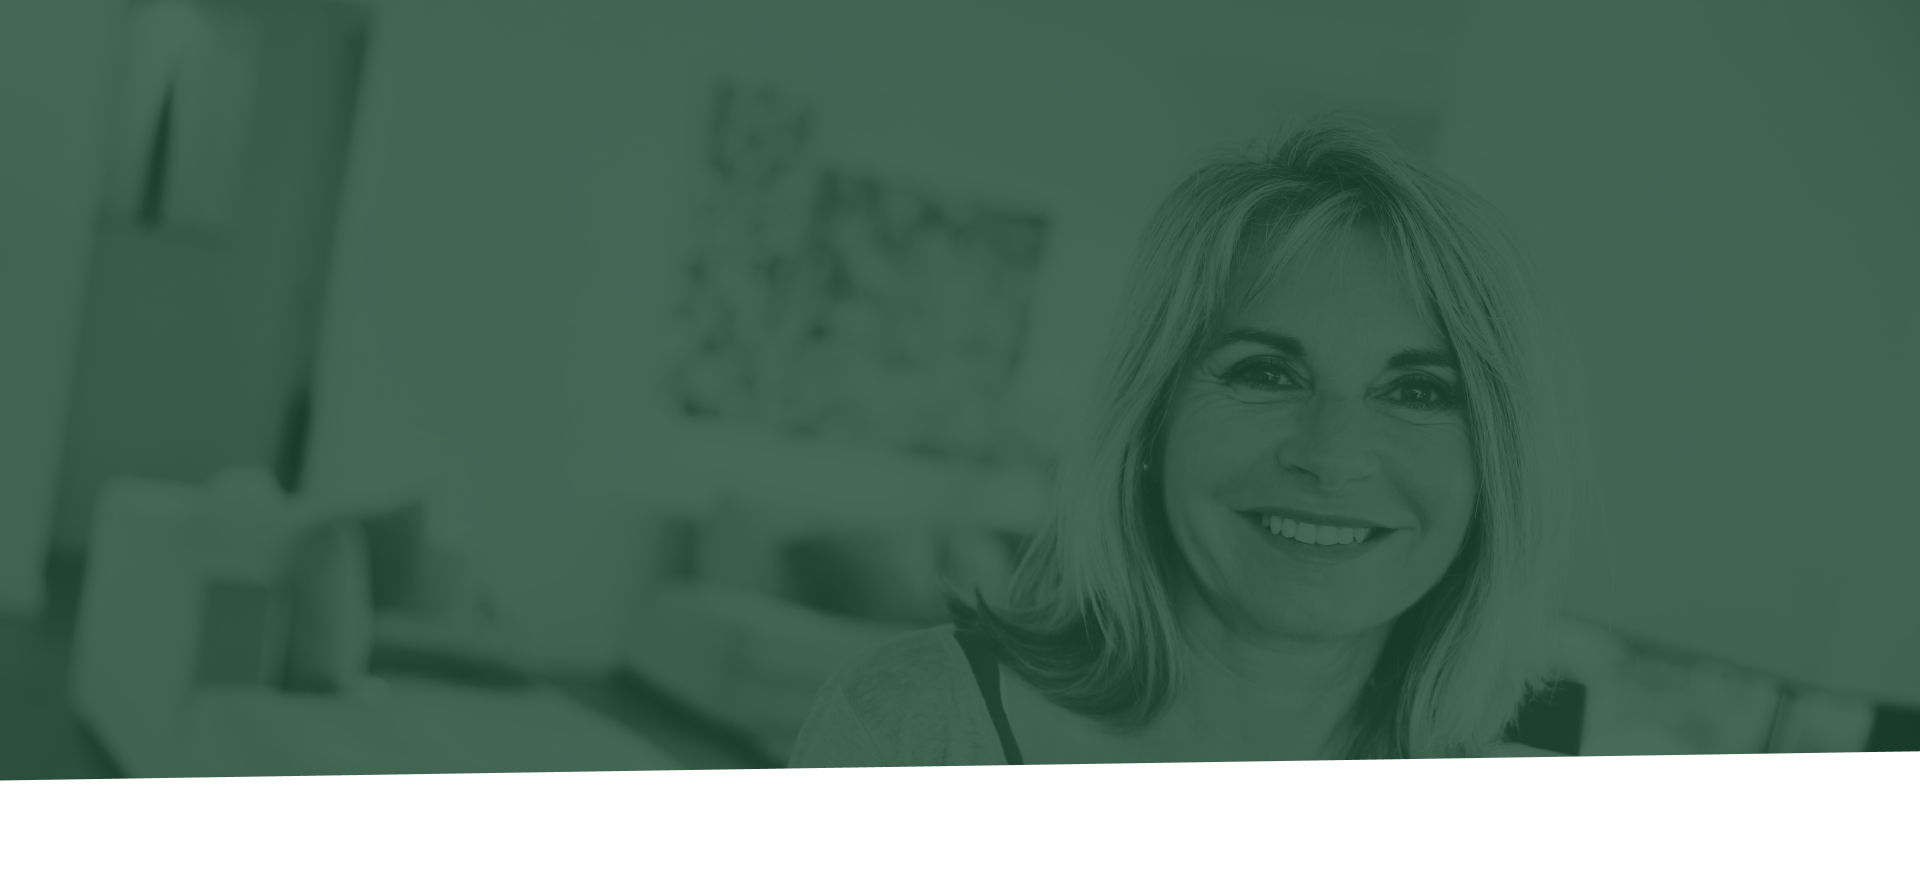
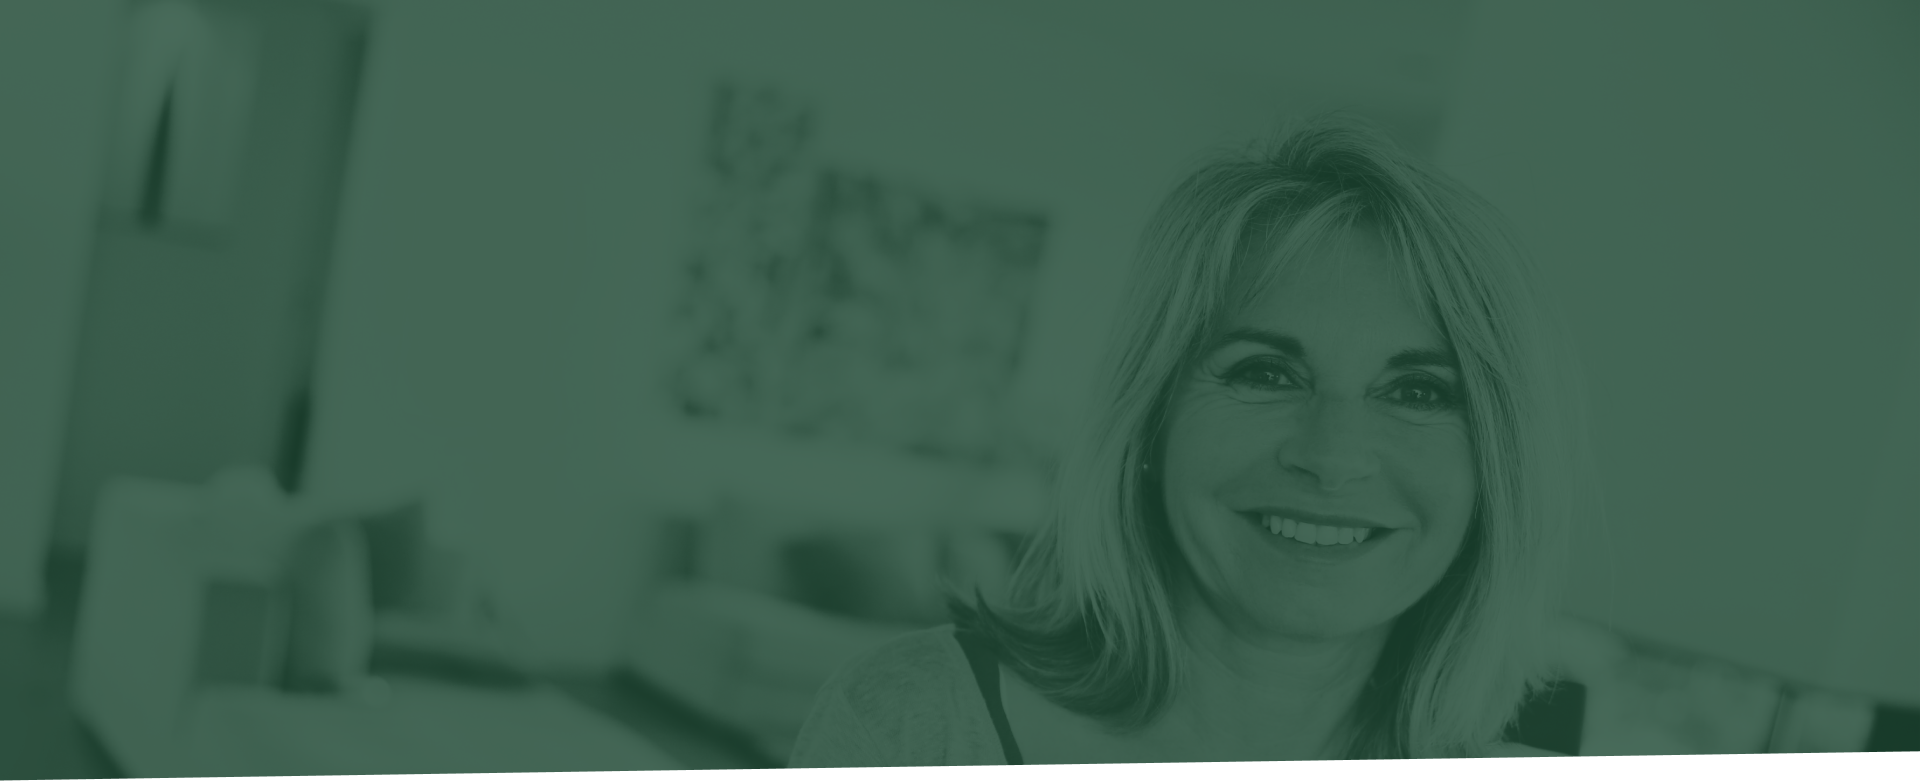
UPDATE to grab it form here

diff --git a/css/style.css b/css/style.css
@@ -2381,6 +2381,22 @@ body {
           transform: translateX(-140%);
 }
 
+.sample-rates .hero .hero__item {
+  padding-top: 151px;
+}
+
+@media (max-width: 1250px) {
+  .sample-rates .hero .hero__item {
+    padding-top: 143px;
+  }
+}
+
+@media (max-width: 767px) {
+  .sample-rates .hero .hero__item {
+    padding-top: 81px;
+  }
+}
+
 .sample-rates .hero .hero__item--inner {
   top: 60%;
 }
@@ -2403,6 +2419,20 @@ body {
   font-size: 72px;
   line-height: 86px;
   color: #ffffff;
+}
+
+@media (max-width: 1200px) {
+  .sample-rates .hero .hero__item--inner .container .title-1 {
+    font-size: 50px;
+    line-height: 50px;
+  }
+}
+
+@media (max-width: 767px) {
+  .sample-rates .hero .hero__item--inner .container .title-1 {
+    font-size: 34px;
+    line-height: 38px;
+  }
 }
 
 .sample-rates .hero .hero__item--inner .container .text, .sample-rates .hero .hero__item--inner .container .testimonials .testimonials__images__item__text span, .testimonials .testimonials__images__item__text .sample-rates .hero .hero__item--inner .container span {
@@ -2444,30 +2474,24 @@ body {
 .sample-rates .rates-tabs {
   position: relative;
   z-index: 99;
-  margin-top: -12%;
+  margin-top: -85px;
 }
 
-@media (max-width: 1200px) {
+@media (max-width: 767px) {
   .sample-rates .rates-tabs {
-    margin-top: -5%;
+    margin-top: -60px;
   }
 }
 
 @media (max-width: 991px) {
-  .sample-rates .rates-tabs {
-    -webkit-box-ordinal-group: 3;
-        -ms-flex-order: 2;
-            order: 2;
-    margin-top: 0;
-    padding-bottom: 60px;
-  }
   .sample-rates .rates-tabs .text-3 {
     display: none;
   }
 }
 
 .sample-rates .rates-tabs .container {
-  width: 1220px;
+  width: 100%;
+  max-width: 1220px;
 }
 
 .sample-rates .rates-tabs .card {
@@ -2494,6 +2518,12 @@ body {
   padding: 0;
   margin: 0;
   list-style: none;
+}
+
+@media (max-width: 1200px) {
+  .sample-rates .rates-tabs .sample-rates-slider__container #tabs {
+    min-height: 116px;
+  }
 }
 
 .sample-rates .rates-tabs .sample-rates-slider__container #tabs li {
@@ -2544,6 +2574,12 @@ body {
   transition: all 0.2s ease-in-out;
 }
 
+@media (max-width: 1200px) {
+  .sample-rates .rates-tabs .sample-rates-slider__container #tabs li a {
+    font-size: 18px;
+  }
+}
+
 @media (max-width: 991px) {
   .sample-rates .rates-tabs .sample-rates-slider__container {
     padding-bottom: 0px;
@@ -2566,11 +2602,23 @@ body {
   margin-top: 104px;
 }
 
+@media (max-width: 991px) {
+  .sample-rates .tabs-container .title-1 {
+    font-size: 32px;
+  }
+}
+
 .sample-rates .tabs-container .slidecontainer {
   width: 100%;
   max-width: 632px;
   margin: 0 auto;
   position: relative;
+}
+
+@media (max-width: 991px) {
+  .sample-rates .tabs-container .slidecontainer {
+    width: 80%;
+  }
 }
 
 .sample-rates .tabs-container .slidecontainer .btn-minus {
@@ -2733,6 +2781,16 @@ body {
           justify-content: space-between;
 }
 
+@media (max-width: 991px) {
+  .sample-rates .tabs-container .plan__items {
+    -ms-flex-wrap: wrap;
+        flex-wrap: wrap;
+    -webkit-box-pack: center;
+        -ms-flex-pack: center;
+            justify-content: center;
+  }
+}
+
 .sample-rates .tabs-container .plan__items > .plan-item {
   -webkit-box-flex: 1;
       -ms-flex: 1 1 auto;
@@ -2752,6 +2810,12 @@ body {
   -webkit-box-sizing: border-box;
           box-sizing: border-box;
   border-radius: 8px;
+}
+
+@media (max-width: 991px) {
+  .sample-rates .tabs-container .plan__items .plan-item {
+    margin-bottom: 40px;
+  }
 }
 
 .sample-rates .tabs-container .plan__items .plan-item .plan-heading {

diff --git a/scss/style.scss b/scss/style.scss
@@ -1259,6 +1259,16 @@ body {
 
 .sample-rates {
   .hero {
+
+    .hero__item {
+      padding-top: 151px;
+      @media (max-width: 1250px){
+        padding-top: 143px;
+        }
+      @media (max-width: 767px){
+          padding-top: 81px;
+      }
+    }
     .hero__item--inner {
       top: 60%;
       .container {
@@ -1276,6 +1286,14 @@ body {
           font-size: 72px;
           line-height: 86px;
           color: #ffffff;
+          @media (max-width: 1200px){
+            font-size: 50px;
+            line-height: 50px;
+          }
+          @media (max-width: 767px){
+            font-size: 34px;
+            line-height: 38px;
+          }
         }
         .text {
           font-style: normal;
@@ -1286,6 +1304,7 @@ body {
           color: #ffffff;
           opacity: 0.8;
         }
+     
       }
     }
   }
@@ -1306,20 +1325,22 @@ body {
   .rates-tabs {
     position: relative;
     z-index: 99;
-    margin-top: -12%;
+    margin-top: -85px;
     @media (max-width: 1200px) {
-      margin-top: -5%;
+     
+    }
+    @media (max-width: 767px) {
+      margin-top: -60px;
     }
     @media (max-width: 991px) {
-      order: 2;
-      margin-top: 0;
-      padding-bottom: 60px;
       .text-3 {
         display: none;
       }
     }
+   
     .container {
-      width: 1220px;
+      width: 100%;
+      max-width: 1220px;
     }
     .card {
       border: 0;
@@ -1338,6 +1359,9 @@ body {
         padding: 0;
         margin: 0;
         list-style: none;
+        @media (max-width: 1200px) {
+          min-height: 116px;
+        }
         li {
           width: 33.3333%;
           display: flex;
@@ -1368,6 +1392,9 @@ body {
             color: #0d193f;
             opacity: 0.4;
             transition: all 0.2s ease-in-out;
+            @media (max-width: 1200px) {
+              font-size: 18px;
+            }
           }
         }
       }
@@ -1391,12 +1418,18 @@ body {
       text-align: center;
       color: #000000;
       margin-top: 104px;
+      @media (max-width: 991px) {
+        font-size: 32px;
+      }
     }
     .slidecontainer {
       width: 100%;
       max-width: 632px;
       margin: 0 auto;
       position: relative;
+      @media (max-width: 991px) {
+        width: 80%;
+      }
       .btn-minus {
         display: block;
         position: absolute;
@@ -1539,6 +1572,10 @@ body {
     .plan__items {
       display: flex;
       justify-content: space-between;
+      @media (max-width: 991px) {
+     flex-wrap: wrap;
+     justify-content: center;
+      }
       & > .plan-item {
         flex: 1 1 auto;
         margin: 0px 40px 0px 0px;
@@ -1553,6 +1590,9 @@ body {
         border: 1px solid #ccd3cf;
         box-sizing: border-box;
         border-radius: 8px;
+        @media (max-width: 991px) {
+        margin-bottom: 40px;
+           }
 
         .plan-heading {
           padding: 45px 16px;

diff --git a/sample-rates.html b/sample-rates.html
@@ -62,9 +62,9 @@
     <div class="hero__item">
       <!-- <img src="./images/hero-min.png" class="img-fluid" alt=""> -->
       <picture>
-        <source media="(min-width:993px)" srcset="./images/sample-rates/hero-1.png">
-        <source media="(max-width:992px)" srcset="./images/hero-2-min.png">
-        <img src="./images/sample-rates/hero-1.png" class="img-fluid" alt="">
+        <img src="./images/sample-rates/hero-1.png" class="img-fluid sr-hero1 sr-heroes" alt="">
+        <img src="./images/sample-rates/hero-2.png" class="img-fluid sr-hero2 sr-heroes" alt="">
+        <img src="./images/sample-rates/hero-3.png" class="img-fluid sr-hero3 sr-heroes" alt="">
       </picture>
       <div class="hero__item--inner">
         <div class="container">
@@ -607,6 +607,9 @@
       // SGLF / SGLM / COUPLES
       $('.slideinfo h3').text(ageRange);
 
+            $('.sr-heroes').fadeOut('fast');
+      $('.sr-hero1').fadeIn();
+
   
       var planA,
           planB,
@@ -850,16 +853,19 @@
       $('#tabs li').click(function () {
         $('#tabs li').removeClass('active');
         $(this).addClass('active');
-
+        $('.sr-heroes').fadeOut('fast');
         console.log('TYPE', $(this).data('type'))
         switch($(this).data('type')) {
             case "SGLF":    
+            $('.sr-hero1').fadeIn();
               planType = "SGLF";
               break;
             case "SGLM":
+            $('.sr-hero2').fadeIn();
               planType = "SGLM";
               break;
             case "COUPLES":
+            $('.sr-hero3').fadeIn();
               planType = "COUPLES";
               break;
           }
